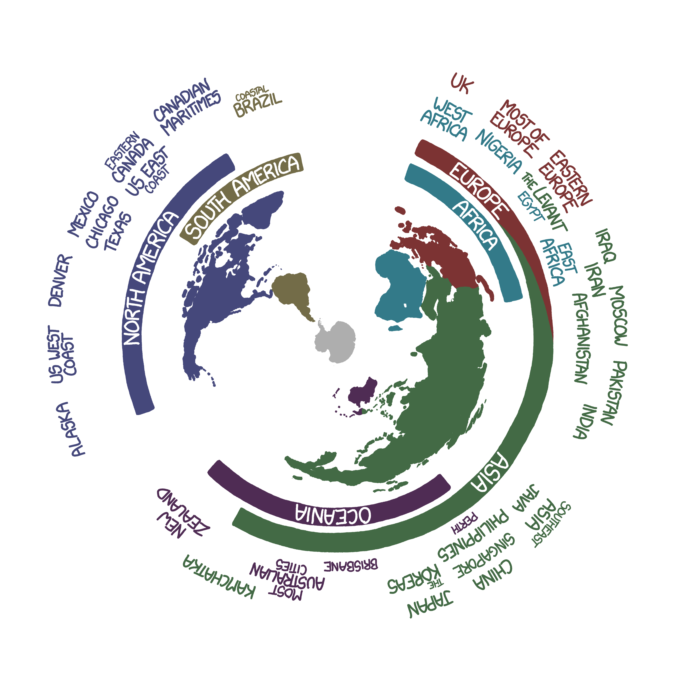
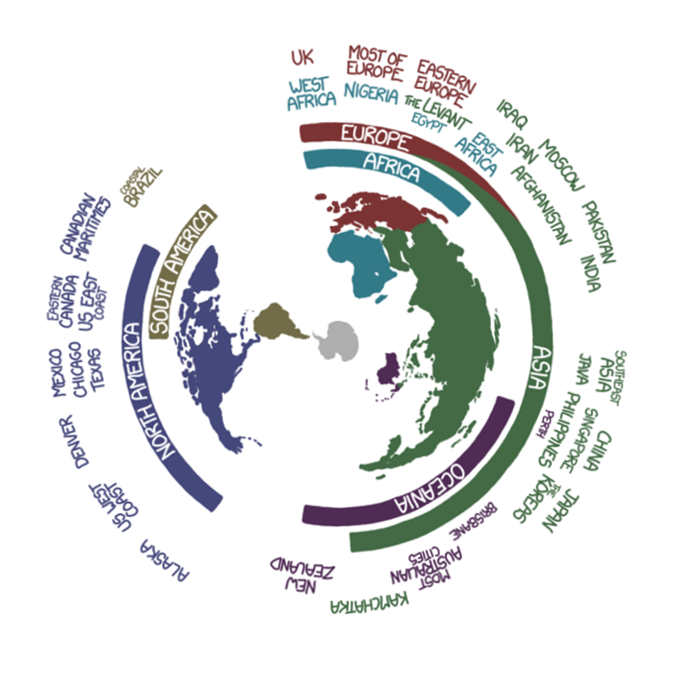
Rotated map to match GMT, added dislaimer for inaccuracies, removed console log, and modified css for asthetics.

Changed region(s): [[0.0621, 0.0622, 0.932, 0.9333], [0.4038, 0.6533, 0.4349, 0.6844]]

diff --git a/index.html b/index.html
@@ -14,9 +14,16 @@
         You can checkout the source <a href="https://github.com/RodEsp/xkcd-now-clock" target="_blank">here</a>.
     </p>
 
-    <div class="clock">
-        <div class="world"></div>
+    <div id="clock">
+        <div id="world"></div>
     </div>
+
+    <p id="disclaimer">
+        <span>DISCLAIMER:</span>
+        <br/>
+        The clock uses UTC and the map's orientation is based on the Greenwich Meridian (roughly England). Therefore England's orientation will always
+        show the correct time but due to scaling issues and things like Daylight Saving time it might be off for other locations.
+    </p>
 
     <script type="text/javascript" src="main.js"></script>
 </body>

diff --git a/style.css b/style.css
@@ -5,10 +5,13 @@ body {
 
 h1 {
     font-size: 34px;
+    margin: 13px auto;
 }
 
 p {
     position: relative;
+    margin: 13px auto;
+    width: 675px;
     z-index: 2;
 }
 
@@ -17,7 +20,7 @@ a {
     color: #FFAD00;
 }
 
-.clock {
+#clock {
     position: relative;
     margin: auto;
     width: 675px;
@@ -25,11 +28,15 @@ a {
     background-image: url(clock.png);
 }
 
-.world {
+#world {
     z-index: 1;
     position: absolute;
     margin: auto;
     width: 675px;
     height: 675px;
     background-image: url(world.png);
+}
+
+#disclaimer span {
+    font-weight:bold;
 }

diff --git a/main.js b/main.js
@@ -1,4 +1,4 @@
-var world = document.querySelector('.world');
+var world = document.querySelector('#world');
 var rotationAngle = 360 / (60 * 60 * 24); // 360 degrees divided by seconds in a day
 var prefixes = ['webkitTransform', 'MozTransform', 'msTransform', 'OTransform', 'transform'];
 
@@ -10,7 +10,6 @@ function updateMap() {
     prefixes.forEach(function (el) {
         world.style[el] = rotString;
     });
-    console.log('map updated at => ' + new Date());
 }
 
 setInterval(function () {
